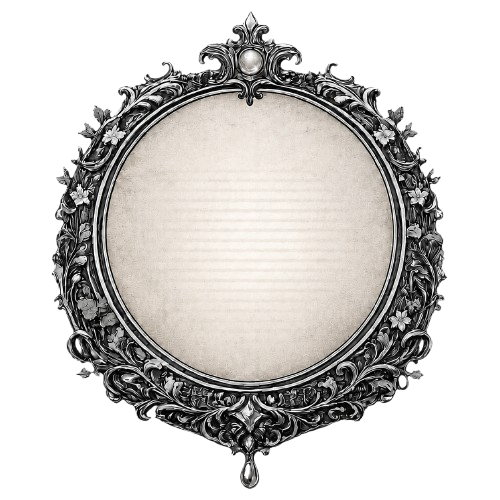
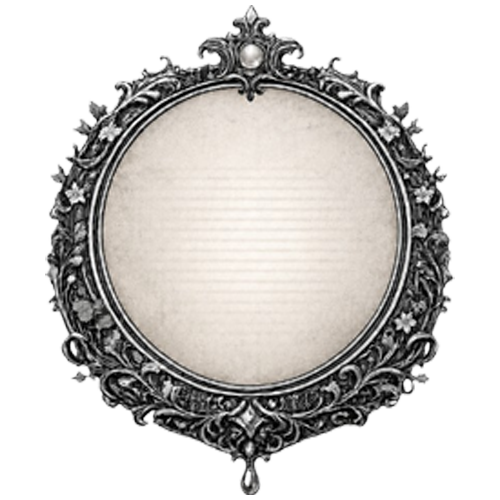
arrumar as imagens de jogos

Changed region(s): [[0.09, 0.0, 0.93, 0.99]]

diff --git a/pagina-jogos.html b/pagina-jogos.html
@@ -19,32 +19,32 @@
     <div>
         <img src="img/menu_jogos.png" alt="" class="menu_jogo">
 
+
+        <a href="qual-resultado.html" id="pag">
+
+                <img src="img/imagem_jogo-dourada.png" id="jogo">
+        </a>
+
         <script>
-        const dados = {
-            1: {
-                imagens: ["img/imagem_jogo-dourada.png","img/imagem_jogo-dourada.png","img/imagem_jogo-dourada.png"],
-                links: ["pagina1.html","pagina2.html","pagina3.html"],
-                i: 0
-            },
-            2: {
-                imagens: ["img/img2.png","img/img2b.png","img/img2c.png"],
-                links: ["qual-resultado.html","pagina5.html","pagina6.html"],
-                i: 0
+            const imgs = [
+                "img/imagem_jogo-dourada.png","img/imagem_jogo-prata.png","img/imagem_jogo-dourada.png"
+            ];
+
+            const pags = [
+                "qual-resultado.html","qual-resultado.html","qual-resultado.html"
+            ];
+
+            let i = 0;
+
+            function mudar_jogo(){
+                i = (i + 1) % imgs.length;
+
+                 document.getElementById("jogo").src = imgs[i];
+                 document.getElementById("pag").href = pags[i]
             }
-        };
-
-        function trocar(id){
-            const d = dados[id];
-
-            d.i = (d.i + 1) % d.imagens.length;
-
-            document.getElementById("img"+id).src = d.imagens[d.i];
-            document.getElementById("link"+id).href = d.links[d.i];
-        }
         </script>
 
-
-        <button onclick="mudar_imagem()" class="botão">
+        <button onclick="mudar_jogo()" class="botão">
             <img id="seta" src="img/seta.png" width="300">
 
         </button>

diff --git a/css/desing-jogos.css b/css/desing-jogos.css
@@ -46,7 +46,7 @@ body{
     left: 760px;
 }
 
-.jogo img{
+#jogo{
     width: 400px;
     height: auto;
 